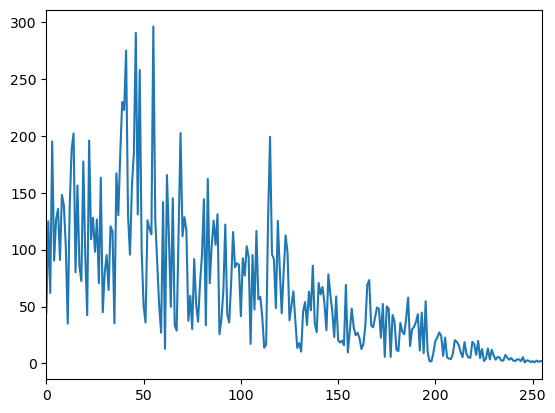
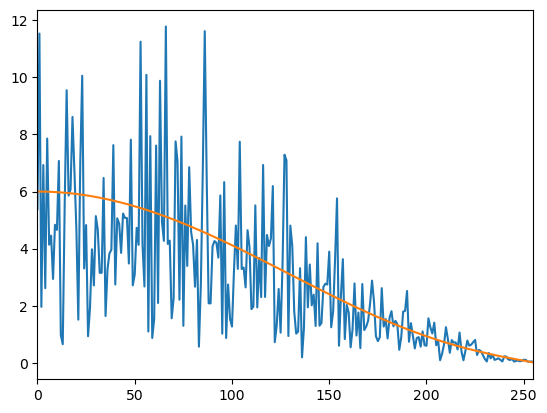
acr更新

diff --git a/docs/activity/acr/text01/practice.html b/docs/activity/acr/text01/practice.html
@@ -68,29 +68,35 @@
 
 <br>
 <p>
-<input type="checkbox"><b>演習1-2 (個人):</b> <a href="./page03.html">テキスト</a>で例として示した信号とその自己相関関数のグラフを描いてみましょう。
+<input type="checkbox"><b>演習1-2 (個人):</b> <a href="./page04.html">4ページ目</a>で例として示した信号とその自己相関関数のグラフを描いてみましょう。
 </p>
 <div class="olradio"> 
 <p>
-<span class="olradio"><input type="radio" name="p2"></span> <a href="./src/ACR-1-2.cpp">テンプレートソース</a>(ACR-1-2.cpp)をダウンロードします。
+<span class="olradio"><input type="radio" name="p2"></span> フォルダ「ACR_1_2」を新規作成し、その中に移動します 
 <br>
-<span class="olradio"><input type="radio" name="p2"></span> テンプレートソースを開いて穴埋めをします。
+<span class="olradio"><input type="radio" name="p2"></span> フォルダ「ACR_1_2」の中に main.cpp を作成します 
 <br>
-<span class="olradio"><input type="radio" name="p2"></span> コンパイルして実行すると 2 つのCSVファイル(ACR-1-2-f.csv、ACR-1-2-R.csv)が出力されます。ACR-1-2-f.csv が信号値で ACR-1-2-R.csv が自己相関関数値です。
+<span class="olradio"><input type="radio" name="p2"></span> main.cpp を開き、ファイルの中身を <a href="./src/ACR_1_2.txt">テンプレートソース</a>の内容に置き換えて下さい。 
 <br>
-<span class="olradio"><input type="radio" name="p2"></span> ACR-1-2-f.csv を表計算ソフトで開き、一行目に空行を挿入し、最初の列の先頭に「i」 、次の列の先頭に「f[i]」と入力します。
+<span class="olradio"><input type="radio" name="p2"></span> テンプレートファイルの記述に従って ? の部分を上から穴埋めしてプログラムを完成させて下さい。
+<br>
+<span class="olradio"><input type="radio" name="p2"></span> コンパイルして実行すると 2 つのCSVファイルが出来ます。ACR_1_2_f.csv が信号値で ACR_1_2_R.csv が自己相関関数値です。
+<br>
+<span class="olradio"><input type="radio" name="p2"></span> 信号値(ACR_1_2_f.csv)を表計算ソフトで開いてください。
+<br>
+<span class="olradio"><input type="radio" name="p2"></span> 一行目に空行を挿入し、1 行目の最初の列に「i」、次の列に「f[i]」 と入力します。
 <br>
 <span class="olradio"><input type="radio" name="p2"></span> グラフを挿入します。グラフの種類は散布図、点あり、線あり、平滑化なしとします。
 <br>
-<span class="olradio"><input type="radio" name="p2"></span> 「名前を付けて保存」でシートを表計算形式で保存します。ファイル名は「ACR-1-2-f」として下さい(拡張子は使用する表計算ソフトによる)。
+<span class="olradio"><input type="radio" name="p2"></span> 「名前を付けて保存」でシートを表計算形式で保存します。ファイル名は「ACR_1_2_f」として下さい(拡張子は使用する表計算ソフトによる)。
 <br>
-<span class="olradio"><input type="radio" name="p2"></span> 同様に ACR-1-2-R.csv を表計算ソフトで開き、一行目に空行を挿入し、最初の列の先頭に「n」、次の列の先頭に「R[n]」と入力します。
+<span class="olradio"><input type="radio" name="p2"></span> 次に自己相関関数値(ACR_1_2_R.csv)を表計算ソフトで開いてください。
+<br>
+<span class="olradio"><input type="radio" name="p2"></span> 一行目に空行を挿入し、1 行目の最初の列に「n」、次の列に「R[n]」と入力します。
 <br>
 <span class="olradio"><input type="radio" name="p2"></span> グラフを挿入します。グラフの種類は散布図、点あり、線あり、平滑化なしとします。
 <br>
-<span class="olradio"><input type="radio" name="p3"></span> グラフのタイトルに乱数の平均と分散の値を追加します。
-<br>
-<span class="olradio"><input type="radio" name="p2"></span> 「名前を付けて保存」でシートを表計算形式で保存します。ファイル名は「ACR-1-2-R」として下さい(拡張子は使用する表計算ソフトによる)。
+<span class="olradio"><input type="radio" name="p2"></span> 「名前を付けて保存」でシートを表計算形式で保存します。ファイル名は「ACR_1_2_R」として下さい(拡張子は使用する表計算ソフトによる)。
 <br>
 <span class="olradio"><input type="radio" name="p2"></span> チーム内で答え合わせをして下さい。 
 <br>
@@ -100,33 +106,41 @@
 
 <br>
 <p>
-<input type="checkbox"><b>演習1-3 (個人):</b> 一様乱数を用いた白色雑音と自己相関関数のグラフを描いてみましょう。
+<input type="checkbox"><b>演習1-3 (個人):</b> 一様乱数を用いた白色雑音と自己相関関数のグラフを描いてみましょう。なお一様乱数として U( -1, 5 ) を用います。
 </p>
 <div class="olradio"> 
 <p>
-<span class="olradio"><input type="radio" name="p3"></span> <a href="./src/ACR-1-3.cpp">テンプレートソース</a>(ACR-1-3.cpp)をダウンロードします。
+<span class="olradio"><input type="radio" name="p3"></span> フォルダ「ACR_1_3」を新規作成し、その中に移動します 
 <br>
-<span class="olradio"><input type="radio" name="p3"></span> テンプレートソースを開いて穴埋めをします。一様乱数として U( -2, 4 ) を用います。
+<span class="olradio"><input type="radio" name="p3"></span> フォルダ「ACR_1_3」の中に main.cpp を作成します 
 <br>
-<span class="olradio"><input type="radio" name="p3"></span> コンパイルして実行すると 2 つのCSVファイル(ACR-1-3-f.csv、ACR-1-3-R.csv)が出力されます。ACR-1-3-f.csv が信号値で ACR-1-3-R.csv が自己相関関数値です。
+<span class="olradio"><input type="radio" name="p3"></span> main.cpp を開き、ファイルの中身を <a href="./src/ACR_1_3.txt">テンプレートソース</a>の内容に置き換えて下さい。 
 <br>
-<span class="olradio"><input type="radio" name="p3"></span> ACR-1-3-f.csv を表計算ソフトで開き、一行目に空行を挿入し、最初の列の先頭に「i」、次の列の先頭に「f[i]」と入力します。
+<span class="olradio"><input type="radio" name="p3"></span> テンプレートファイルの記述に従って ? の部分を上から穴埋めしてプログラムを完成させて下さい。
+<br>
+<span class="olradio"><input type="radio" name="p3"></span> コンパイルして実行すると 2 つのCSVファイルが出来ます。ACR_1_3_f.csv が信号値で ACR_1_3_R.csv が自己相関関数値です。
+<br>
+<span class="olradio"><input type="radio" name="p3"></span> 信号値(ACR_1_2_f.csv)を表計算ソフトで開いてください。
+<br>
+<span class="olradio"><input type="radio" name="p3"></span> 一行目に空行を挿入し、1 行目の最初の列に「i」、次の列に「f[i]」 と入力します。
 <br>
 <span class="olradio"><input type="radio" name="p3"></span> グラフを挿入します。グラフの種類は散布図、点あり、線あり、平滑化なしとします。
 <br>
-<span class="olradio"><input type="radio" name="p3"></span> 「名前を付けて保存」でシートを表計算形式で保存します。ファイル名は「ACR-1-3-f」として下さい(拡張子は使用する表計算ソフトによる)。
+<span class="olradio"><input type="radio" name="p3"></span> 「名前を付けて保存」でシートを表計算形式で保存します。ファイル名は「ACR_1_3_f」として下さい(拡張子は使用する表計算ソフトによる)。
 <br>
-<span class="olradio"><input type="radio" name="p3"></span> 同様に ACR-1-3-R.csv を表計算ソフトで開き、一行目に空行を挿入し、最初の列の先頭に「n」、次の列の先頭に「R[n]」と入力します。
+<span class="olradio"><input type="radio" name="p3"></span> 次に自己相関関数値(ACR_1_2_R.csv)を表計算ソフトで開いてください。
+<br>
+<span class="olradio"><input type="radio" name="p3"></span> 一行目に空行を挿入し、1 行目の最初の列に「n」、次の列に「R[n]」と入力します。
 <br>
 <span class="olradio"><input type="radio" name="p3"></span> グラフを挿入します。グラフの種類は散布図、点あり、線あり、平滑化なしとします。
 <br>
-<span class="olradio"><input type="radio" name="p3"></span> グラフのタイトルに乱数の平均と分散の値を追加します。
+<span class="olradio"><input type="radio" name="p3"></span> 「名前を付けて保存」でシートを表計算形式で保存します。ファイル名は「ACR_1_3_R」として下さい(拡張子は使用する表計算ソフトによる)。
 <br>
-<span class="olradio"><input type="radio" name="p3"></span> 「名前を付けて保存」でシートを表計算形式で保存します。ファイル名は「ACR-1-3-R」として下さい(拡張子は使用する表計算ソフトによる)。
+<span class="olradio"><input type="radio" name="p3"></span> 一様乱数 U( -1, 5 ) の平均と分散を求め、自己相関関数のグラフがほぼ理論通りになっていることを確認します。
 <br>
 <span class="olradio"><input type="radio" name="p3"></span> チーム内で答え合わせをして下さい。 
 <br>
-<span class="olradio"><input type="radio" name="p3"></span> 指定場所に「信号値のグラフ」と「自己相関関数値のグラフ」を貼り付けて下さい。  
+<span class="olradio"><input type="radio" name="p3"></span> 指定場所に「平均と分散」、「信号値のグラフ」と「自己相関関数値のグラフ」を貼り付けて下さい。  
 </p>
 </div>
 

diff --git a/docs/activity/acr/text01/page01.html b/docs/activity/acr/text01/page01.html
@@ -54,7 +54,7 @@ Cov \left ( f[i], f[i+n] \right ) = Cov \left ( f[i+n], f[i] \right )
 <p>
 という等式が成り立ちます。
 <br>
-また定常な確率過程の場合は時刻 $i$ が関係無くなるので
+また定常過程の場合は時刻 $i$ が関係無くなるので
 </p>
 \[
 Cov \left ( f[i], f[i+n] \right ) = Cov \left ( f[i], f[i-n] \right ) = Cov \left ( f[n], f[0] \right )
@@ -74,7 +74,7 @@ f[i] = e[i] + 3 \cdot e[i-1] + 2 \cdot e[i-2]
 \]
 
 <p>
-を $i=0$ から $i=511$ まで 512 点出力したグラフで、いわゆる「<b>移動平均(MA)モデル</b>」と呼ばれる式です(参考までにソースは<a href="src/page01-1.txt">こちら</a>)。
+を $i=0$ から $i=511$ まで 512 点出力したグラフで、いわゆる「<b>移動平均(MA)モデル</b>」と呼ばれるモデルです(図1,2のソースは<a href="src/page01-1.txt">こちら</a>)。
 <br>
 ここで $e[i]$ は各時刻毎に独立な平均 0、分散 1 の正規乱数です。
 </p>
@@ -129,13 +129,43 @@ Cov \left ( f[i], f[i+n] \right ) = 0 \ , \ (n \geq 3)
 
 <div class="info">
 <input type="checkbox"><b>図2: $f[i] = e[i] + 3 \cdot e[i-1] + 2 \cdot e[i-2]$ の振幅スペクトル</b>
-<p>　</p>
+
+<p>※ 橙色の線は理論的なスペクトル包絡線</p>
+
 <img src="./img/page01-fig2.png" alt="">
 </div>
 
+<p>
+もう少し複雑な例として図3を見て下さい。
+<br>
+図3の信号も図1と同様に移動平均(MA)モデルから生成した信号です(図3,4のソースは<a href="src/page01-2.txt">こちら</a>)。
+</p>
+
+<div class="info">
+<input type="checkbox"><b>図3: 正規乱数列をバンドパスフィルタに通して生成した信号  </b>
+<p>　</p>
+<img src="./img/page01-fig3.png" alt="">
+</div>
+
+<p>
+一見すると平均が上下していて定常過程でないような印象を受けますが、もちろんこの信号も定常過程になっています。
+<br>
+参考までに図3の信号の振幅スペクトルを図4に示します。
+</p>
+
+<div class="info">
+<input type="checkbox"><b>図4: 図3の信号の振幅スペクトル </b>
+
+<p>※ 橙色の線は理論的なスペクトル包絡線</p>
+
+<img src="./img/page01-fig4.png" alt="">
+</div>
+
+
+
 
 <br>
-<h3>(補足) 例で挙げた $f[i]$ の平均と共分散の導出</h3>
+<h3>(補足) 最初の例で挙げた $f[i]$ の平均と共分散の導出</h3>
 
 \[
 f[i] = e[i] + 3 \cdot e[i-1] + 2 \cdot e[i-2] 

diff --git a/docs/activity/acr/text01/page02.html b/docs/activity/acr/text01/page02.html
@@ -46,17 +46,11 @@ R[n] = \textrm{E}\left ( f[i] \cdot f[i+n] \right )
 ところが $f[i]$ の確率分布は普通分かりませんし、仮に分かっていてもかなり複雑な分布になったりしますので、ディジタル信号処理の世界では実際に観測された $f[i]$ の値を使って求める「<b>標本自己相関関数</b>(sample autocorrelation function)」で代用することが多いです。
 </p>
 
-<p>
-なお標本自己相関関数の定義は $f[i]$ が周期的かどうかによって変わります。
-<br>
-今回のアクティビティでは周期的であるとみなして次のように定義します。
-</p>
-
 <div class="info">
 <input type="checkbox"><b>定義: 標本自己相関関数:</b>
 
 <p>
-$f[i]$ が周期 $\textrm{N}$ で周期的であるとき
+$f[i]$ の信号長を $\textrm{N}$ とした時
 </p>
 
 \[
@@ -81,11 +75,11 @@ A mod N・・・割った余りを求める剰余演算(modulo)、(例) 5 mod 2 
 </div>
 
 <p>
-上の定義の中でも触れている通り独立変数 $n$ の範囲は $n=0,1,\cdots,\textrm{N-1}$ なので、自己相関関数も $R[0]$ から $R[\textrm{N}-1]$ までの長さ N のディジタル信号になります。
+$n$ の範囲は $n=0,1,\cdots,\textrm{N-1}$ なので、自己相関関数も $R[0]$ から $R[\textrm{N}-1]$ までの信号長 N のディジタル信号になります。
 </p>
 
 <p>
-なお $R[0]$ の時は
+なお $\textrm{R}[0]$ は
 </p>
 
 \[
@@ -96,7 +90,9 @@ f[\ i\ ]
 \]
 
 <p>
-より信号の平均パワーを表し、同じ信号同士の相関になりますので自己相関価数の中で必ず最大値となります。
+ですので信号の平均パワーを表します。
+<br>
+同じ信号列同士の相関になりますので $\textrm{R}[0]$ は $R[0]$ から $R[\textrm{N}-1]$ までの中で必ず最大値となります。
 </p>
 
 <p>

diff --git a/docs/activity/acr/text01/page03.html b/docs/activity/acr/text01/page03.html
@@ -21,9 +21,9 @@
 <h2><script>GetTitle()</script></h2>
 
 <p>
-さて $f[i]$ は定常過程と仮定しましたので(標本)自己相関関数 $R[n]$ の値は時刻 $i$ に寄らず遅延時刻 $n$ だけで決まります。
+さて $f[i]$ は定常過程と仮定しましたので(標本)自己相関関数 $R[n]$ の値は時刻 $i$ によらずに遅延時刻 $n$ だけで決まります。
 <br>
-そして $R[0]$ は自己相関関数の中で常に最大値となり信号の平均パワーを示しています。
+そして $R[0]$ は $R[0]$ から $R[\textrm{N}-1]$ の中で常に最大値となります。
 <br>
 また $R[n]$ の値がある程度大きい値である場合は $f[i]$ と $f[i+n]$ の間に強い相関がみとめられます。
 </p>
@@ -53,7 +53,7 @@ f[i] = 3 + 1 \cdot \sin( 2\pi /5 \cdot i ) + 2 \cdot \cos( 2\pi /(5.0/3.0) \cdot
 <p>
 に雑音として平均 0、分散 1 の正規乱数を各時刻で付加すると自己相関関数がどう変化するかみてみましょう。
 <br>
-なお信号の長さは N=10000 とします。
+なお信号長は N=10000 とします。
 </p>
 
 <p>

diff --git a/docs/activity/acr/text01/page04.html b/docs/activity/acr/text01/page04.html
@@ -21,11 +21,11 @@
 <h2><script>GetTitle()</script></h2>
 
 <p>
-$f[i]$ が一様分布や正規分布の様な白色雑音(ホワイトノイズ)の場合は $R[0]$ が最大値になるのは通常の信号の時と同じなのですが、 $n > 0$ の $R[n]$ の値は $f[i]$ と $f[i+n]$ が無相関なのでほぼ一定値になります。
+$f[i]$ が一様分布や正規分布の様な白色雑音(ホワイトノイズ)の場合、$f[i]$ と $f[i+n]$ が無相関なので $n > 0$ の $R[n]$ の値はほぼ一定値になります。
 </p>
 
 <p>
-具体的には $f[i]$ が平均 $\mu$、分散 $\sigma^2$ の白色雑音なら
+具体的には $f[i]$ が平均 $\mu$、分散 $\sigma^2$ の白色雑音なら、理論値である
 </p>
 
 \[

diff --git a/docs/activity/acr/text01/page05.html b/docs/activity/acr/text01/page05.html
@@ -45,6 +45,35 @@
 
 </div>
 
+<p>
+なお白色雑音のパワースペクトルの理論値も自己相関関数の理論値
+</p>
+
+
+\[
+R[0] = \mu^2 + \sigma^2
+\]
+
+\[
+R[n] = \mu^2 \ ,\ n \geq 1
+\]
+
+<p>
+を FFT することで求められます。
+<br>
+具体的には
+</p>
+\[
+|\textrm{C}[0]|^2 = \mu^2 + \frac{\sigma^2}{\textrm{N}}
+\]
+\[
+|\textrm{C}[k]|^2 = \frac{\sigma^2}{\textrm{N}} \ ,\ (k\geq 1)
+\]
+<p>
+になります($\textrm{N}$は信号長)。
+</p>
+
+
 <br>
 <script>PreNext(5,5)</script>
 </body>

diff --git a/docs/activity/acr/index.html b/docs/activity/acr/index.html
@@ -19,7 +19,7 @@
 <h1><script>GetTitle()</script></h1>
 
 <p>
-最終更新日: 2021/10/16
+最終更新日: 2021/10/17
 </p>
 
 <div class="info">
